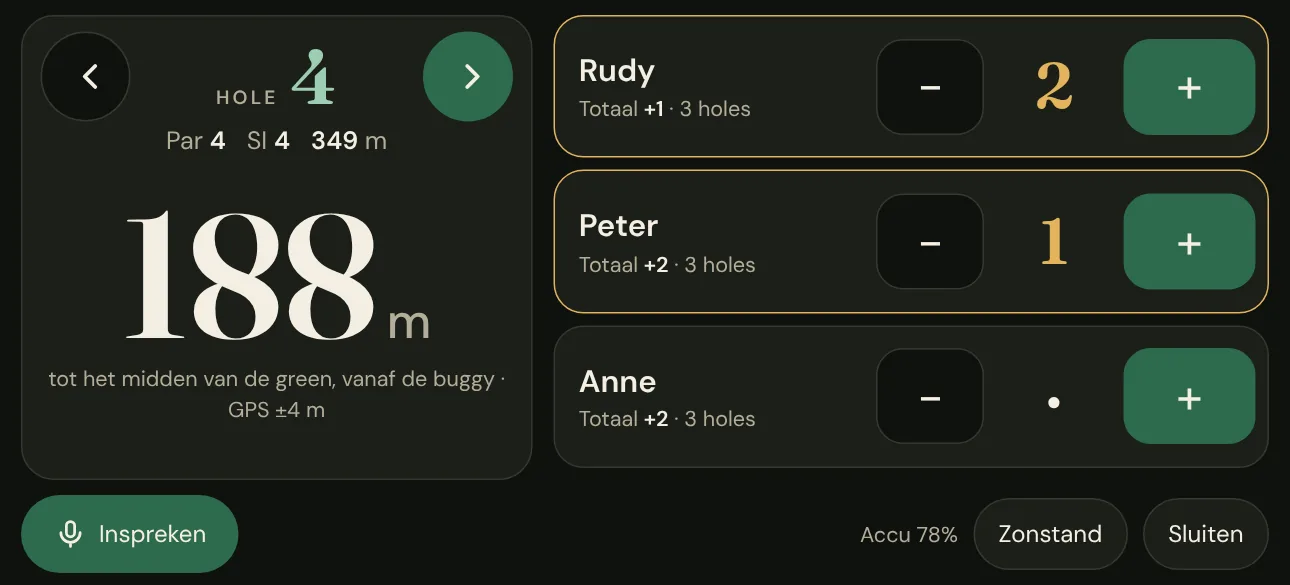
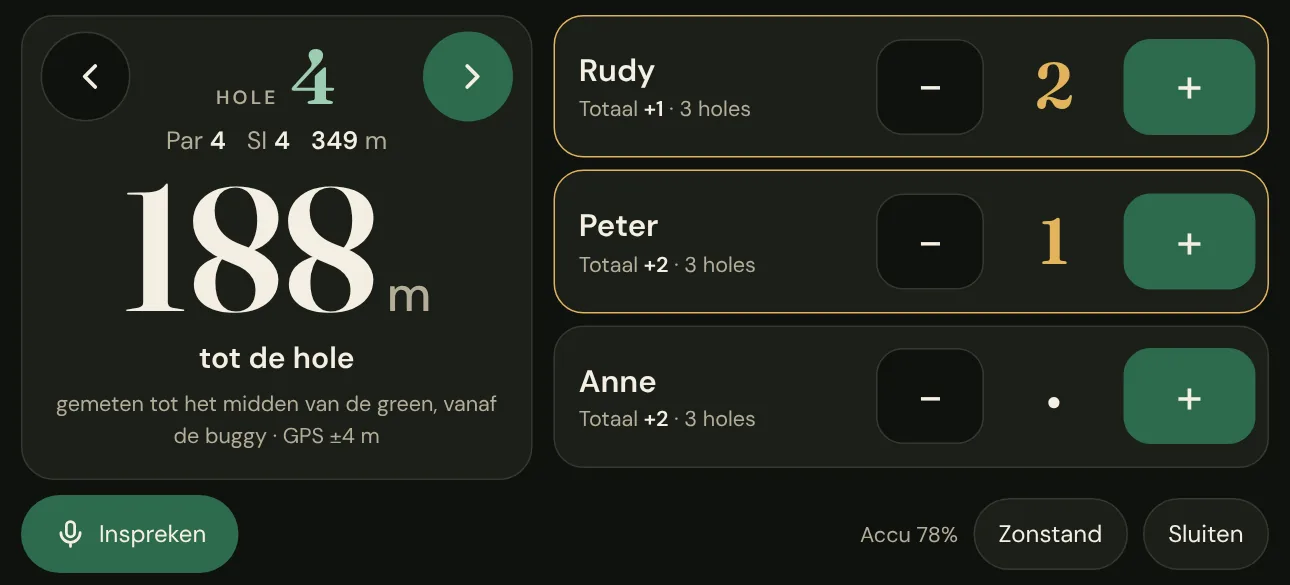
Buggystand: afstand "tot de hole" (gemeten tot het midden van de green)
Claude-Session: https://claude.ai/code/session_014xdgxDMMzj8Av2tih8V1wt

Changed region(s): [[0.031, 0.3077, 0.4031, 0.7692]]

diff --git a/server/site/veelgestelde-vragen.html b/server/site/veelgestelde-vragen.html
@@ -17,7 +17,7 @@
   <link rel="stylesheet" href="https://fonts.googleapis.com/css2?family=Fraunces:opsz,wght@9..144,400;9..144,600&family=DM+Sans:wght@400;500;600&display=swap">
   <link rel="stylesheet" href="/style.css?v=44602e4b49">
   <script type="application/ld+json">{"@context":"https://schema.org","@type":"BreadcrumbList","itemListElement":[{"@type":"ListItem","position":1,"name":"Home","item":"https://golf.kapital.nl/"},{"@type":"ListItem","position":2,"name":"Veelgestelde vragen","item":"https://golf.kapital.nl/veelgestelde-vragen.html"}]}</script>
-  <script type="application/ld+json">{"@context":"https://schema.org","@type":"FAQPage","mainEntity":[{"@type":"Question","name":"Wat is Golfscore?","acceptedAnswer":{"@type":"Answer","text":"Golfscore is een web-app om tijdens een golfronde je slagen in te spreken of per slag te tikken. De app toont met GPS de afstand tot de green en berekent na de ronde bruto, stableford, score differential en een handicapindicatie volgens het World Handicap System."}},{"@type":"Question","name":"Hoe spreek ik een score in?","acceptedAnswer":{"@type":"Answer","text":"Tik op de microfoon en zeg bijvoorbeeld “Hole 4, Rudy 5, Peter 4”. Speel je alleen, dan is “Hole 4, 5 slagen” genoeg. Golftermen zoals par, birdie en bogey werken ook."}},{"@type":"Question","name":"Werkt de app zonder internet?","acceptedAnswer":{"@type":"Answer","text":"Ja. Alles wordt eerst op je telefoon bewaard en de app opent ook zonder bereik. Zodra er weer verbinding is, wordt alles vanzelf gesynchroniseerd, op Android zelfs als de app dicht is."}},{"@type":"Question","name":"Hoe installeer ik Golfscore op mijn iPhone?","acceptedAnswer":{"@type":"Answer","text":"Open kaprudy.github.io/Golf in Safari, tik op de deelknop en kies “Zet op beginscherm”."}},{"@type":"Question","name":"Hoe installeer ik Golfscore op Android?","acceptedAnswer":{"@type":"Answer","text":"Open kaprudy.github.io/Golf in Chrome, tik op het menu (drie puntjes) en kies “App installeren” of “Toevoegen aan startscherm”."}},{"@type":"Question","name":"Heb ik een account nodig?","acceptedAnswer":{"@type":"Answer","text":"Nee. Je gegevens worden bewaard en gekoppeld aan je telefoon. Met een account met e-mailadres zie je ze ook terug op een nieuwe telefoon."}},{"@type":"Question","name":"Welke golfbanen staan erin?","acceptedAnswer":{"@type":"Answer","text":"445 banen in heel Nederland en net over de grens in Duitsland, met par, stroke index, course rating en slope per tee."}},{"@type":"Question","name":"Mijn baan staat er niet bij. Wat nu?","acceptedAnswer":{"@type":"Answer","text":"In de app voeg je zelf een baan toe via Instellingen. Je vult de par en stroke index per hole in en de course rating en slope van de tees."}},{"@type":"Question","name":"Telt een ronde op een par 3-baan mee voor mijn handicap?","acceptedAnswer":{"@type":"Answer","text":"Nee. Rondes op pitch & putt- en par 3-banen tellen in Golfscore niet mee voor de handicapindicatie; je ziet wel je score en stableford."}},{"@type":"Question","name":"Kan ik mijn telefoon op de buggy gebruiken?","acceptedAnswer":{"@type":"Answer","text":"Ja. Zet je telefoon in een houder op de buggy en tik op “Buggystand”, of leg hem dwars: dan vraagt de app het zelf. Je ziet groot de afstand tot de green en telt de slagen met grote knoppen; het scherm blijft aan. Met de zonstand is het ook in fel zonlicht goed leesbaar."}},{"@type":"Question","name":"Hoe nauwkeurig is de afstand tot de green?","acceptedAnswer":{"@type":"Answer","text":"De app gebruikt de GPS van je telefoon, meestal tot op een paar meter nauwkeurig. De afstand is tot het midden van de green."}},{"@type":"Question","name":"Wat gebeurt er met mijn gegevens?","acceptedAnswer":{"@type":"Answer","text":"Alleen je spelers, banen en rondes worden bewaard, via een beveiligde verbinding. Je locatie tijdens de ronde blijft op je telefoon. Je kunt je account en gegevens altijd verwijderen in de app."}}]}</script>
+  <script type="application/ld+json">{"@context":"https://schema.org","@type":"FAQPage","mainEntity":[{"@type":"Question","name":"Wat is Golfscore?","acceptedAnswer":{"@type":"Answer","text":"Golfscore is een web-app om tijdens een golfronde je slagen in te spreken of per slag te tikken. De app toont met GPS de afstand tot de green en berekent na de ronde bruto, stableford, score differential en een handicapindicatie volgens het World Handicap System."}},{"@type":"Question","name":"Hoe spreek ik een score in?","acceptedAnswer":{"@type":"Answer","text":"Tik op de microfoon en zeg bijvoorbeeld “Hole 4, Rudy 5, Peter 4”. Speel je alleen, dan is “Hole 4, 5 slagen” genoeg. Golftermen zoals par, birdie en bogey werken ook."}},{"@type":"Question","name":"Werkt de app zonder internet?","acceptedAnswer":{"@type":"Answer","text":"Ja. Alles wordt eerst op je telefoon bewaard en de app opent ook zonder bereik. Zodra er weer verbinding is, wordt alles vanzelf gesynchroniseerd, op Android zelfs als de app dicht is."}},{"@type":"Question","name":"Hoe installeer ik Golfscore op mijn iPhone?","acceptedAnswer":{"@type":"Answer","text":"Open kaprudy.github.io/Golf in Safari, tik op de deelknop en kies “Zet op beginscherm”."}},{"@type":"Question","name":"Hoe installeer ik Golfscore op Android?","acceptedAnswer":{"@type":"Answer","text":"Open kaprudy.github.io/Golf in Chrome, tik op het menu (drie puntjes) en kies “App installeren” of “Toevoegen aan startscherm”."}},{"@type":"Question","name":"Heb ik een account nodig?","acceptedAnswer":{"@type":"Answer","text":"Nee. Je gegevens worden bewaard en gekoppeld aan je telefoon. Met een account met e-mailadres zie je ze ook terug op een nieuwe telefoon."}},{"@type":"Question","name":"Welke golfbanen staan erin?","acceptedAnswer":{"@type":"Answer","text":"445 banen in heel Nederland en net over de grens in Duitsland, met par, stroke index, course rating en slope per tee."}},{"@type":"Question","name":"Mijn baan staat er niet bij. Wat nu?","acceptedAnswer":{"@type":"Answer","text":"In de app voeg je zelf een baan toe via Instellingen. Je vult de par en stroke index per hole in en de course rating en slope van de tees."}},{"@type":"Question","name":"Telt een ronde op een par 3-baan mee voor mijn handicap?","acceptedAnswer":{"@type":"Answer","text":"Nee. Rondes op pitch & putt- en par 3-banen tellen in Golfscore niet mee voor de handicapindicatie; je ziet wel je score en stableford."}},{"@type":"Question","name":"Kan ik mijn telefoon op de buggy gebruiken?","acceptedAnswer":{"@type":"Answer","text":"Ja. Zet je telefoon in een houder op de buggy en tik op “Buggystand”, of leg hem dwars: dan vraagt de app het zelf. Je ziet groot de afstand tot de hole en telt de slagen met grote knoppen; het scherm blijft aan. Met de zonstand is het ook in fel zonlicht goed leesbaar."}},{"@type":"Question","name":"Hoe nauwkeurig is de afstand tot de green?","acceptedAnswer":{"@type":"Answer","text":"De app gebruikt de GPS van je telefoon, meestal tot op een paar meter nauwkeurig. De afstand is tot het midden van de green."}},{"@type":"Question","name":"Wat gebeurt er met mijn gegevens?","acceptedAnswer":{"@type":"Answer","text":"Alleen je spelers, banen en rondes worden bewaard, via een beveiligde verbinding. Je locatie tijdens de ronde blijft op je telefoon. Je kunt je account en gegevens altijd verwijderen in de app."}}]}</script>
 </head>
 <body>
 <nav class="nav" aria-label="Hoofdmenu">
@@ -36,7 +36,7 @@
     <h1>Veelgestelde vragen</h1>
     <p class="lead">Over inspreken, installeren, werken zonder bereik, de banen en je handicap.</p>
   </section>
-  <section><details class="qa" open><summary>Wat is Golfscore?</summary><p>Golfscore is een web-app om tijdens een golfronde je slagen in te spreken of per slag te tikken. De app toont met GPS de afstand tot de green en berekent na de ronde bruto, stableford, score differential en een handicapindicatie volgens het World Handicap System.</p></details><details class="qa" open><summary>Hoe spreek ik een score in?</summary><p>Tik op de microfoon en zeg bijvoorbeeld “Hole 4, Rudy 5, Peter 4”. Speel je alleen, dan is “Hole 4, 5 slagen” genoeg. Golftermen zoals par, birdie en bogey werken ook.</p></details><details class="qa" open><summary>Werkt de app zonder internet?</summary><p>Ja. Alles wordt eerst op je telefoon bewaard en de app opent ook zonder bereik. Zodra er weer verbinding is, wordt alles vanzelf gesynchroniseerd, op Android zelfs als de app dicht is.</p></details><details class="qa" open><summary>Hoe installeer ik Golfscore op mijn iPhone?</summary><p>Open kaprudy.github.io/Golf in Safari, tik op de deelknop en kies “Zet op beginscherm”.</p></details><details class="qa" open><summary>Hoe installeer ik Golfscore op Android?</summary><p>Open kaprudy.github.io/Golf in Chrome, tik op het menu (drie puntjes) en kies “App installeren” of “Toevoegen aan startscherm”.</p></details><details class="qa" open><summary>Heb ik een account nodig?</summary><p>Nee. Je gegevens worden bewaard en gekoppeld aan je telefoon. Met een account met e-mailadres zie je ze ook terug op een nieuwe telefoon.</p></details><details class="qa" open><summary>Welke golfbanen staan erin?</summary><p>445 banen in heel Nederland en net over de grens in Duitsland, met par, stroke index, course rating en slope per tee.</p></details><details class="qa" open><summary>Mijn baan staat er niet bij. Wat nu?</summary><p>In de app voeg je zelf een baan toe via Instellingen. Je vult de par en stroke index per hole in en de course rating en slope van de tees.</p></details><details class="qa" open><summary>Telt een ronde op een par 3-baan mee voor mijn handicap?</summary><p>Nee. Rondes op pitch &amp; putt- en par 3-banen tellen in Golfscore niet mee voor de handicapindicatie; je ziet wel je score en stableford.</p></details><details class="qa" open><summary>Kan ik mijn telefoon op de buggy gebruiken?</summary><p>Ja. Zet je telefoon in een houder op de buggy en tik op “Buggystand”, of leg hem dwars: dan vraagt de app het zelf. Je ziet groot de afstand tot de green en telt de slagen met grote knoppen; het scherm blijft aan. Met de zonstand is het ook in fel zonlicht goed leesbaar.</p></details><details class="qa" open><summary>Hoe nauwkeurig is de afstand tot de green?</summary><p>De app gebruikt de GPS van je telefoon, meestal tot op een paar meter nauwkeurig. De afstand is tot het midden van de green.</p></details><details class="qa" open><summary>Wat gebeurt er met mijn gegevens?</summary><p>Alleen je spelers, banen en rondes worden bewaard, via een beveiligde verbinding. Je locatie tijdens de ronde blijft op je telefoon. Je kunt je account en gegevens altijd verwijderen in de app.</p></details></section>
+  <section><details class="qa" open><summary>Wat is Golfscore?</summary><p>Golfscore is een web-app om tijdens een golfronde je slagen in te spreken of per slag te tikken. De app toont met GPS de afstand tot de green en berekent na de ronde bruto, stableford, score differential en een handicapindicatie volgens het World Handicap System.</p></details><details class="qa" open><summary>Hoe spreek ik een score in?</summary><p>Tik op de microfoon en zeg bijvoorbeeld “Hole 4, Rudy 5, Peter 4”. Speel je alleen, dan is “Hole 4, 5 slagen” genoeg. Golftermen zoals par, birdie en bogey werken ook.</p></details><details class="qa" open><summary>Werkt de app zonder internet?</summary><p>Ja. Alles wordt eerst op je telefoon bewaard en de app opent ook zonder bereik. Zodra er weer verbinding is, wordt alles vanzelf gesynchroniseerd, op Android zelfs als de app dicht is.</p></details><details class="qa" open><summary>Hoe installeer ik Golfscore op mijn iPhone?</summary><p>Open kaprudy.github.io/Golf in Safari, tik op de deelknop en kies “Zet op beginscherm”.</p></details><details class="qa" open><summary>Hoe installeer ik Golfscore op Android?</summary><p>Open kaprudy.github.io/Golf in Chrome, tik op het menu (drie puntjes) en kies “App installeren” of “Toevoegen aan startscherm”.</p></details><details class="qa" open><summary>Heb ik een account nodig?</summary><p>Nee. Je gegevens worden bewaard en gekoppeld aan je telefoon. Met een account met e-mailadres zie je ze ook terug op een nieuwe telefoon.</p></details><details class="qa" open><summary>Welke golfbanen staan erin?</summary><p>445 banen in heel Nederland en net over de grens in Duitsland, met par, stroke index, course rating en slope per tee.</p></details><details class="qa" open><summary>Mijn baan staat er niet bij. Wat nu?</summary><p>In de app voeg je zelf een baan toe via Instellingen. Je vult de par en stroke index per hole in en de course rating en slope van de tees.</p></details><details class="qa" open><summary>Telt een ronde op een par 3-baan mee voor mijn handicap?</summary><p>Nee. Rondes op pitch &amp; putt- en par 3-banen tellen in Golfscore niet mee voor de handicapindicatie; je ziet wel je score en stableford.</p></details><details class="qa" open><summary>Kan ik mijn telefoon op de buggy gebruiken?</summary><p>Ja. Zet je telefoon in een houder op de buggy en tik op “Buggystand”, of leg hem dwars: dan vraagt de app het zelf. Je ziet groot de afstand tot de hole en telt de slagen met grote knoppen; het scherm blijft aan. Met de zonstand is het ook in fel zonlicht goed leesbaar.</p></details><details class="qa" open><summary>Hoe nauwkeurig is de afstand tot de green?</summary><p>De app gebruikt de GPS van je telefoon, meestal tot op een paar meter nauwkeurig. De afstand is tot het midden van de green.</p></details><details class="qa" open><summary>Wat gebeurt er met mijn gegevens?</summary><p>Alleen je spelers, banen en rondes worden bewaard, via een beveiligde verbinding. Je locatie tijdens de ronde blijft op je telefoon. Je kunt je account en gegevens altijd verwijderen in de app.</p></details></section>
   <p>Meer over de berekening: <a href="/handicap-berekenen.html">handicap berekenen volgens het WHS</a>. Alle banen: <a href="/banen.html">banen per provincie</a>.</p>
 </main>
 <footer class="site-footer">

diff --git a/server/site/index.html b/server/site/index.html
@@ -61,9 +61,9 @@
   <section id="buggystand">
     <h2>Op de buggy</h2>
     <p>Rijd je met een buggy? Zet je telefoon in een houder op de buggy en tik op <b>Buggystand</b>. Leg je de telefoon dwars, dan vraagt de app het zelf.</p>
-    <figure class="wide-shot"><img src="img/buggystand.webp" alt="Buggystand: links groot de afstand tot de green, rechts per speler grote knoppen om slagen te tellen" loading="lazy" width="860" height="390"></figure>
+    <figure class="wide-shot"><img src="img/buggystand.webp" alt="Buggystand: links groot de afstand tot de hole, rechts per speler grote knoppen om slagen te tellen" loading="lazy" width="860" height="390"></figure>
     <ul class="ticks">
-      <li><b>Groot de afstand tot de green</b>, leesbaar vanaf de stoel. Het is de afstand vanaf de buggy, niet vanaf je bal.</li>
+      <li><b>Groot de afstand tot de hole</b>, leesbaar vanaf de stoel. Gemeten tot het midden van de green, vanaf de buggy en niet vanaf je bal.</li>
       <li><b>Grote + en − per speler</b> om slagen te tellen, ook met handschoen. Mis getikt? Met <em>Ongedaan maken</em> draai je de laatste tik terug.</li>
       <li><b>Het scherm blijft aan</b> zolang de buggystand open is. Op Android gaat de app naar volledig scherm.</li>
       <li><b>Zonstand</b> voor fel zonlicht: zwart op wit met extra contrast.</li>

diff --git a/css/style.css b/css/style.css
@@ -417,6 +417,7 @@ body.buggy-on .toast { z-index: 25; bottom: calc(10px + env(safe-area-inset-bott
 .bm-dist { text-align: center; display: flex; flex-direction: column; align-items: center; justify-content: center; flex: 1; min-height: 0; gap: 6px; }
 .bm-num { font-family: var(--serif); font-weight: 600; font-size: clamp(4rem, 30vh, 8.5rem); line-height: .9; font-variant-numeric: tabular-nums; }
 .bm-num span { font-family: var(--sans); font-size: .28em; font-weight: 500; margin-left: 6px; color: var(--bm-muted); }
+.bm-label { margin: 0; font-size: 1.25rem; font-weight: 600; }
 .bm-sub { margin: 0; font-size: .9rem; color: var(--bm-muted); }
 .bm-msg { margin: 0; font-size: 1.1rem; }
 .bm-chip { min-height: 52px; padding: 0 22px; border-radius: 26px; border: 0; background: var(--bm-accent); color: var(--bm-on-accent) !important; font-weight: 600; font-size: 1.05rem; }

diff --git a/js/app.js b/js/app.js
@@ -478,7 +478,7 @@ function renderBuggyDistance() {
     const dist = toGreen(gps.pos, geoOf(), h);
     const acc = `GPS ±${Math.round(gps.pos.accuracy)} m`;
     html = dist != null
-      ? `<div class="bm-num">${dist}<span>m</span></div><p class="bm-sub">tot het midden van de green, vanaf de buggy · ${acc}</p>`
+      ? `<div class="bm-num">${dist}<span>m</span></div><p class="bm-label">tot de hole</p><p class="bm-sub">gemeten tot het midden van de green, vanaf de buggy · ${acc}</p>`
       : `<p class="bm-msg">Afstand voor hole ${h} is nog niet bekend.</p><p class="bm-sub">${acc}</p>`;
   }
   setHtml($('#bm-dist'), html);
